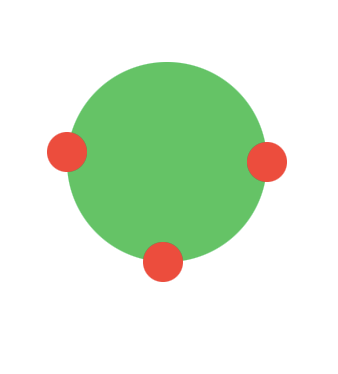
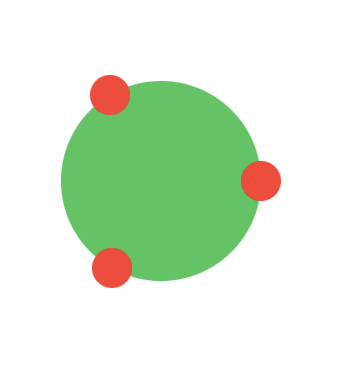
update docs

Changed region(s): [[0.1183, 0.1495, 0.858, 0.8071]]

diff --git a/Sources/StrokeExtensions/StrokeExtensions.docc/Resources/Source/Chapter1/06_Stroke.swift b/Sources/StrokeExtensions/StrokeExtensions.docc/Resources/Source/Chapter1/06_Stroke.swift
@@ -1,15 +1,9 @@
-//
-//  SwiftUIView.swift
-//  
-//
-//  Created by Chris Davis on 12/02/2022.
-//
-
 import SwiftUI
+import StrokeExtensions
 
-struct SwiftUIView {}
+struct ExampleSwiftUIView {}
 
-extension SwiftUIView: View {
+extension ExampleSwiftUIView: View {
   
   var body: some View {
     content
@@ -17,7 +11,7 @@ extension SwiftUIView: View {
   
   var content: some View {
     Circle()
-      .stroke(itemCount: 3) { _, layout in
+      .stroke(itemCount: 5) { _, layout in
         
         let scaled = layout.position * CGSize(width: 100, height: 100)
         
@@ -32,13 +26,4 @@ extension SwiftUIView: View {
       .frame(width: 100, height: 100)
   }
   
-  
-  
-}
-
-
-struct SwiftUIView_Previews: PreviewProvider {
-    static var previews: some View {
-        SwiftUIView()
-    }
 }

diff --git a/Sources/StrokeExtensions/SegmentSlicer.swift b/Sources/StrokeExtensions/SegmentSlicer.swift
@@ -182,8 +182,8 @@ internal class SegmentSlicer {
             add(piece: Piece(p, p, .shape))
             
             //currentMin = toMerge[j].start
-            mergeCounter += 1
           }
+          mergeCounter += 1
         } else {
           
           //add(piece: Piece(currentMin, base[i].length, .space))
